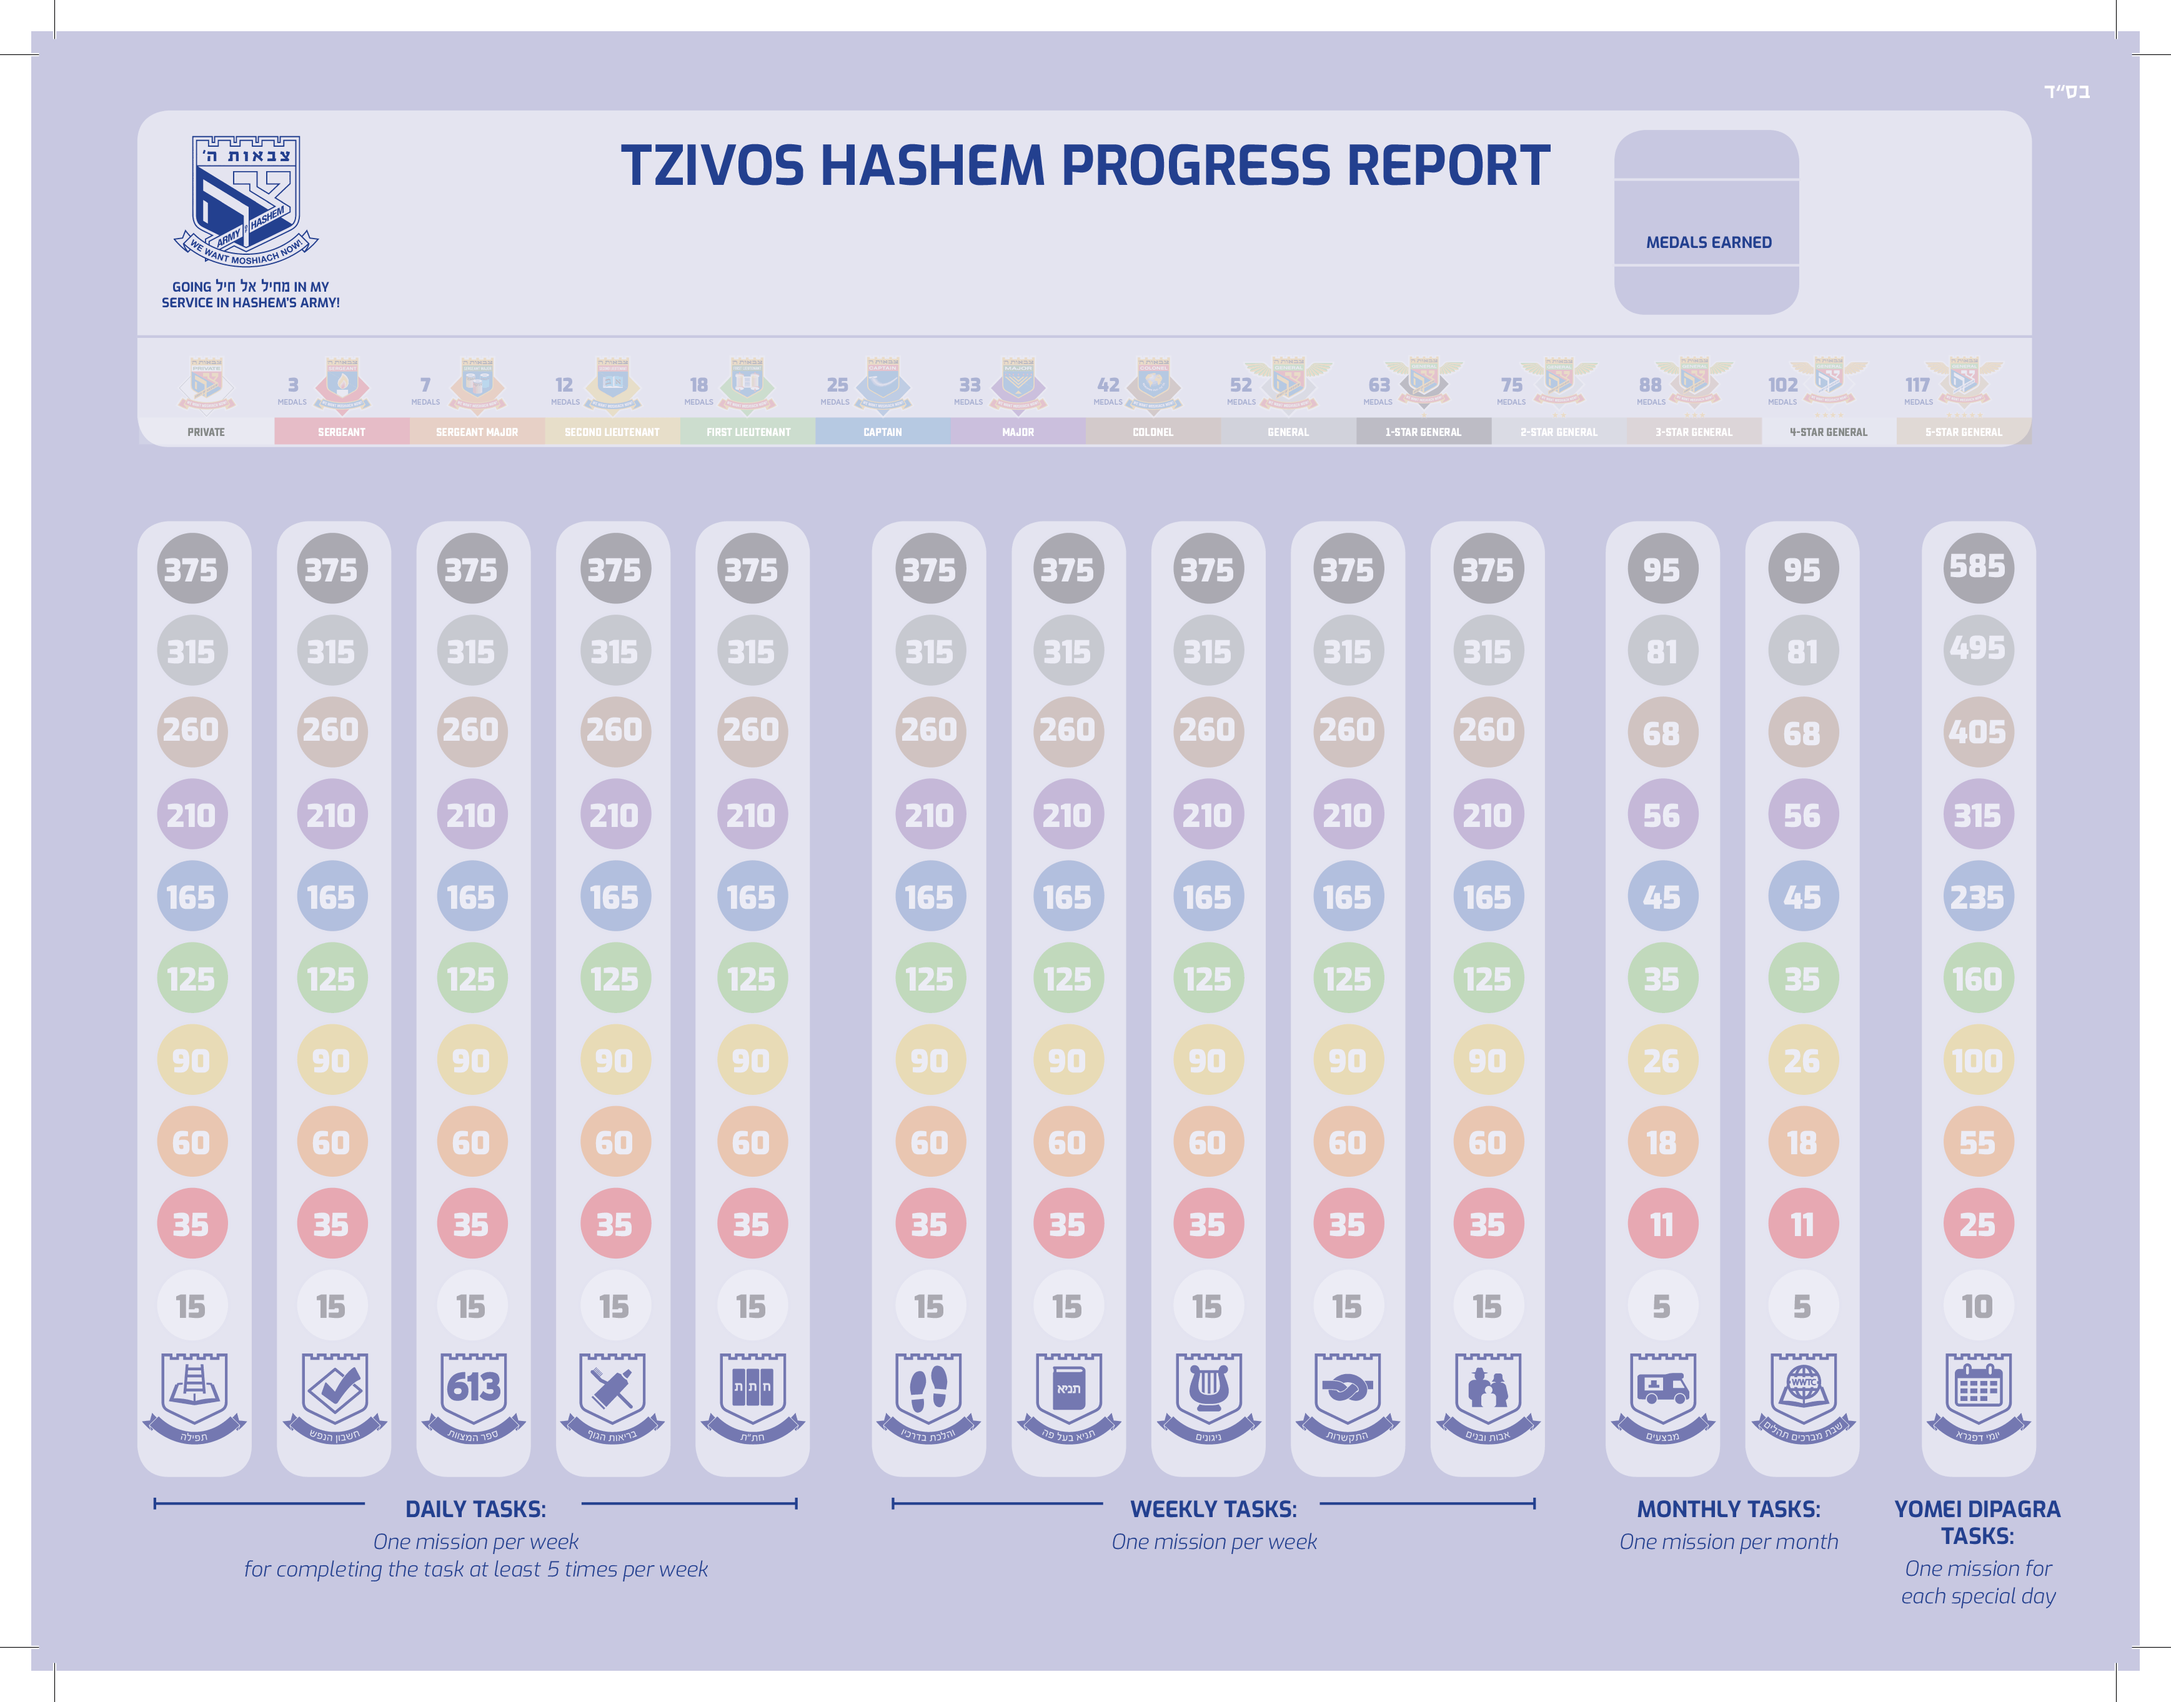
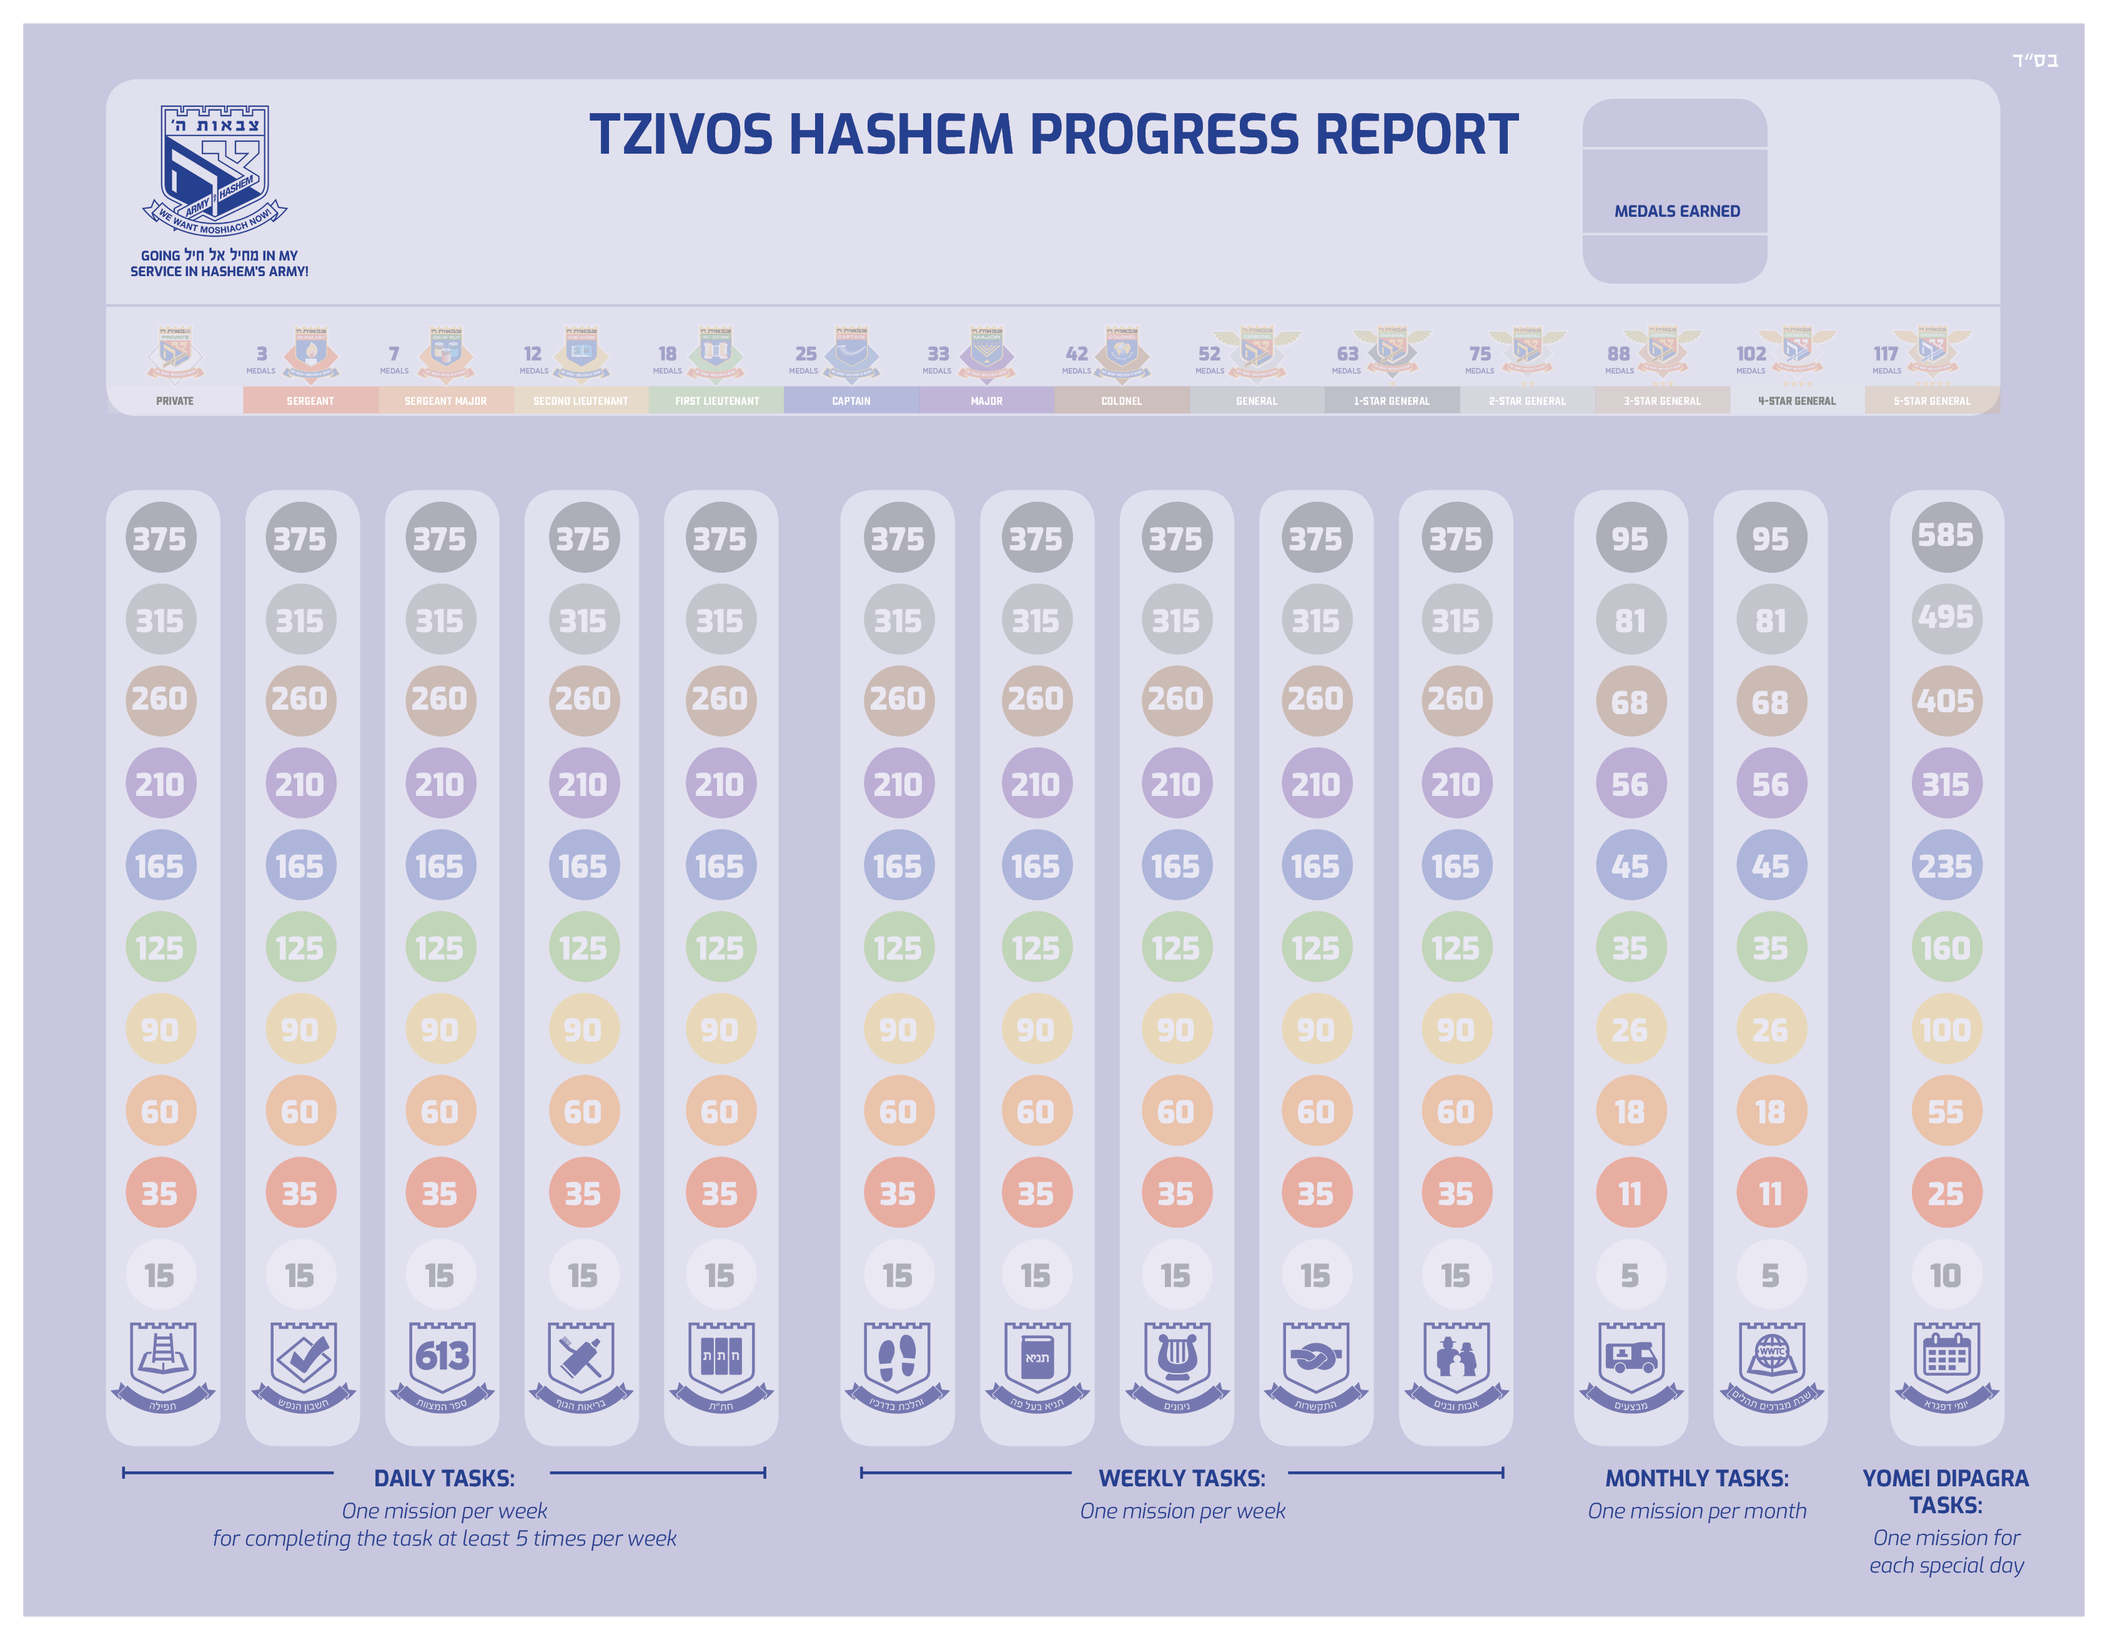
change background again

diff --git a/mashpia.com/public/medal_board/medal_board.css b/mashpia.com/public/medal_board/medal_board.css
@@ -16,7 +16,7 @@
 }
 
 .slide {
-    background-image: url("ProgressReport.png");
+    background-image: url("Progress-Report.png");
     background-repeat: no-repeat;
     background-size: 1200px;
     width: 1200px;
